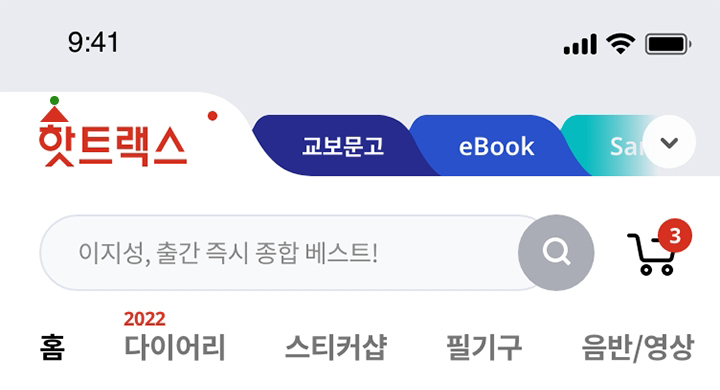
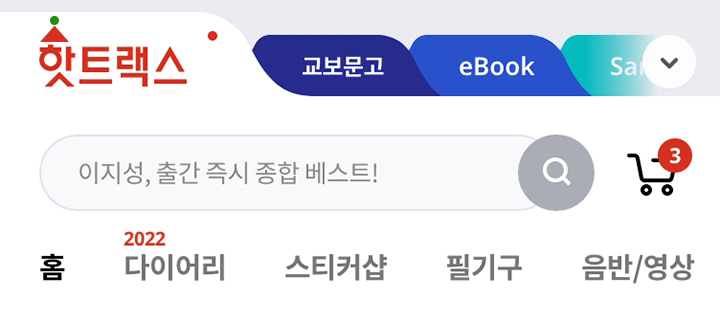
sdgfsdkjglkfdjglkjdfjgd

diff --git a/a_type/resources/css/style_m.css b/a_type/resources/css/style_m.css
@@ -16,10 +16,10 @@ body {background:#ccc;color:#000;font-family:'Noto Sans','Malgun Gothic','맑은
 header {position:fixed;left:0;top:0;width:100%;}
 header p {position:relative;max-width:430px;margin:0 auto;}
 
-#container {padding-top:55vw;}
+#container {padding-top:45vw;}
 
 @media only screen and (min-width:450px) {
-#container {padding-top:233px;}
+#container {padding-top:185px;}
 }
 
 

diff --git a/b_type/resources/css/style_m.css b/b_type/resources/css/style_m.css
@@ -16,10 +16,10 @@ body {background:#ccc;color:#000;font-family:'Noto Sans','Malgun Gothic','맑은
 header {position:fixed;left:0;top:0;width:100%;}
 header p {position:relative;max-width:430px;margin:0 auto;}
 
-#container {padding-top:55vw;}
+#container {padding-top:45vw;}
 
 @media only screen and (min-width:450px) {
-#container {padding-top:233px;}
+#container {padding-top:185px;}
 }
 
 
